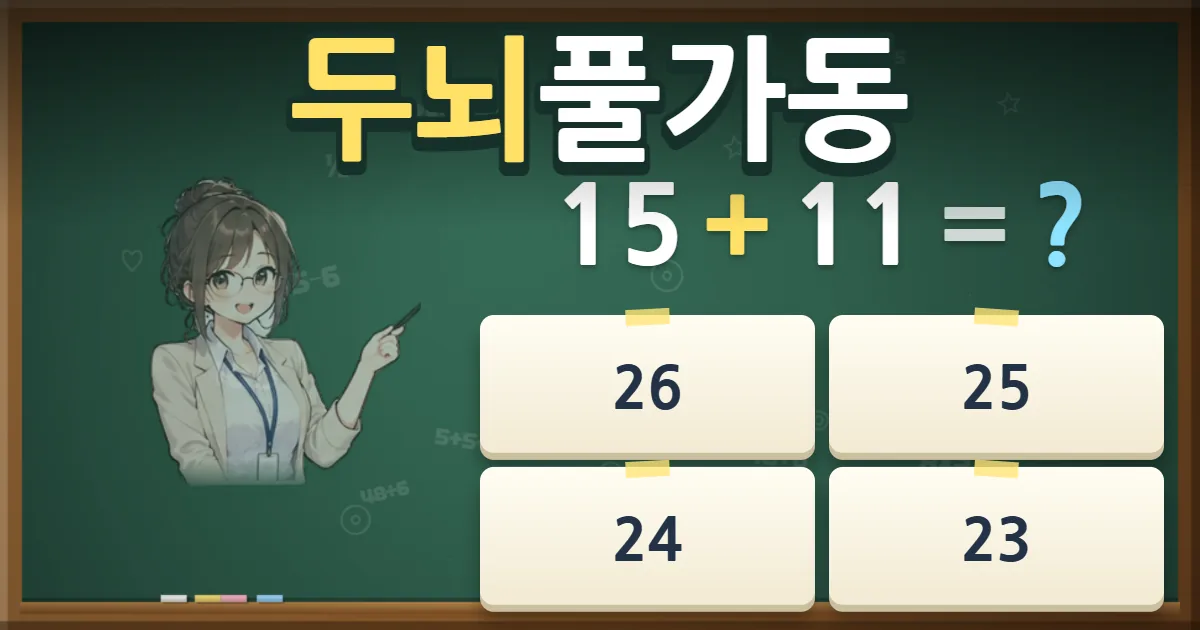
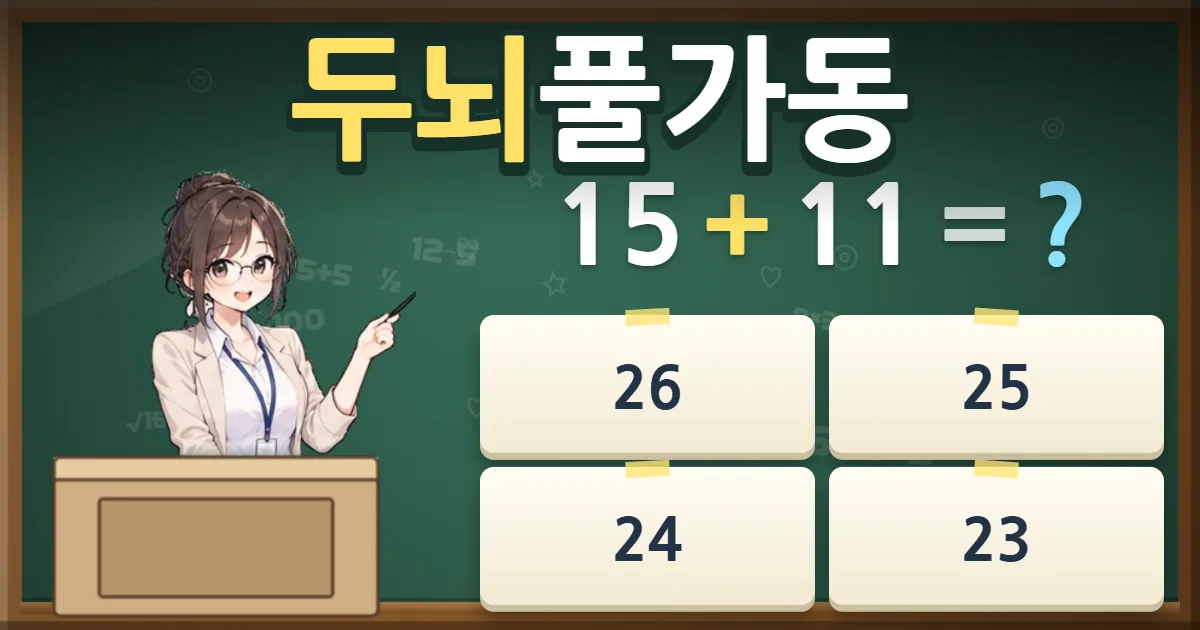
두뇌풀가동 카드·표지 그림 다시 뜸(새 선생님+교탁), ?v=2 (사장님 2026-09-21 "카드 바꿔")

Changed region(s): [[0.0308, 0.2714, 0.37, 0.9952], [0.3392, 0.3921, 0.4008, 0.4222]]

diff --git a/en/games/mini/fullbrain/index.html b/en/games/mini/fullbrain/index.html
@@ -23,7 +23,7 @@
 <meta property="og:title" content="FULL BRAIN — Free Mental Math Quiz Game, Brain Training Online">
 <meta property="og:description" content="Play FULL BRAIN, a free mental math quiz game in your browser. Pick the right answer before the timer runs out, from addition to mixed arithmetic across 60 stages, and chain correct answers for triple points. No download.">
 <meta property="og:url" content="https://oreumgames.com/en/games/mini/fullbrain/">
-<meta property="og:image" content="https://oreumgames.com/assets/fullbrain-og-en.webp?v=1">
+<meta property="og:image" content="https://oreumgames.com/assets/fullbrain-og-en.webp?v=2">
 <meta property="og:image:width" content="1200">
 <meta property="og:image:height" content="630">
 <meta property="og:locale" content="en_US">
@@ -42,7 +42,7 @@
     "두뇌풀가동"
   ],
   "url": "https://oreumgames.com/en/games/mini/fullbrain/",
-  "image": "https://oreumgames.com/assets/fullbrain-og-en.webp?v=1",
+  "image": "https://oreumgames.com/assets/fullbrain-og-en.webp?v=2",
   "description": "A free mental math quiz game that runs in your browser. An arithmetic problem appears on the chalkboard and you pick the answer from four cards before the timer runs out. 60 stages move from addition and subtraction through times tables, division, fill in the blank, three-number problems with order of operations, big numbers and true or false, ending with the BRAIN KING title and an endless mode. Chain correct answers to fill the ⚡ gauge and enter FULL POWER for triple points. Three hearts, up to three stars per stage, progress saved. A teacher sets the questions and marks them with ○ and × boards.",
   "genre": [
     "Puzzle",
@@ -183,7 +183,7 @@
   <section class="showcase">
     <div class="wrap game-page">
       <a class="backlink" href="/en/games/mini/">← All mini games</a>
-      <div class="gp-shot"><img src="/assets/fullbrain-shot-en.webp?v=1" alt="A teacher with glasses points a stick at an arithmetic problem on a green chalkboard, with four answer cards below, under the title FULL BRAIN" width="1280" height="800"></div>
+      <div class="gp-shot"><img src="/assets/fullbrain-shot-en.webp?v=2" alt="A teacher with glasses points a stick at an arithmetic problem on a green chalkboard, with four answer cards below, under the title FULL BRAIN" width="1280" height="800"></div>
       <h1>FULL BRAIN</h1>
       <p class="gp-cta"><a class="btn btn-primary" href="/games/mini/fullbrain/play/?lang=en&amp;v=20260921">🎮 Play now</a></p>
       <p class="gp-line">FULL BRAIN is a free mental math quiz game: pick the right answer to each arithmetic problem before the timer runs out. It runs in your browser with no download, on PC and mobile.</p>

diff --git a/games/mini/fullbrain/index.html b/games/mini/fullbrain/index.html
@@ -23,7 +23,7 @@
 <meta property="og:title" content="두뇌풀가동 — 사칙연산 퀴즈, 암산 두뇌 무료게임">
 <meta property="og:description" content="두뇌풀가동은 설치 없이 브라우저에서 바로 하는 사칙연산 퀴즈게임입니다. 덧셈부터 세 수 계산까지 60스테이지, 제한시간 안에 답을 고르고 연속 정답으로 풀가동 3배 점수를 노립니다.">
 <meta property="og:url" content="https://oreumgames.com/games/mini/fullbrain/">
-<meta property="og:image" content="https://oreumgames.com/assets/fullbrain-og.webp?v=1">
+<meta property="og:image" content="https://oreumgames.com/assets/fullbrain-og.webp?v=2">
 <meta property="og:image:width" content="1200">
 <meta property="og:image:height" content="630">
 <meta property="og:locale" content="ko_KR">
@@ -42,7 +42,7 @@
     "암산 게임"
   ],
   "url": "https://oreumgames.com/games/mini/fullbrain/",
-  "image": "https://oreumgames.com/assets/fullbrain-og.webp?v=1",
+  "image": "https://oreumgames.com/assets/fullbrain-og.webp?v=2",
   "description": "칠판에 뜬 사칙연산 문제를 제한시간 안에 네 장의 답 카드 중에서 고르는 퀴즈 게임. 덧셈·뺄셈·곱셈·나눗셈·빈칸 채우기·세 수 계산·큰 수·○× 판별로 이어지는 60스테이지와 두뇌왕 엔딩, 그 뒤 무한 모드. 정답을 이어 가면 ⚡ 게이지가 차고 다 차면 풀가동으로 다섯 문제 동안 점수 3배. 하트 3개, 판마다 별 3개, 진행 저장. 선생님이 문제를 내고 ○·× 팻말로 채점합니다.",
   "genre": [
     "Puzzle",
@@ -183,7 +183,7 @@
   <section class="showcase">
     <div class="wrap game-page">
       <a class="backlink" href="/games/mini/">← 미니게임 목록</a>
-      <div class="gp-shot"><img src="/assets/fullbrain-shot.webp?v=1" alt="초록 칠판 앞에서 안경 쓴 선생님이 지시봉으로 사칙연산 문제를 가리키고, 아래에 답 카드 네 장이 붙어 있다. 위에 두뇌풀가동 제목이 있다" width="1280" height="800"></div>
+      <div class="gp-shot"><img src="/assets/fullbrain-shot.webp?v=2" alt="초록 칠판 앞에서 안경 쓴 선생님이 지시봉으로 사칙연산 문제를 가리키고, 아래에 답 카드 네 장이 붙어 있다. 위에 두뇌풀가동 제목이 있다" width="1280" height="800"></div>
       <h1>두뇌풀가동</h1>
       <p class="gp-cta"><a class="btn btn-primary" href="play/?v=20260921">🎮 바로 플레이</a></p>
       <p class="gp-line">두뇌풀가동은 칠판에 뜬 사칙연산 문제를 제한시간 안에 고르는 퀴즈 무료 웹게임입니다. 설치 없이 브라우저에서 바로 시작합니다.</p>

diff --git a/index.html b/index.html
@@ -996,7 +996,7 @@
         "alternateName": "FULL BRAIN",
         "url": "https://oreumgames.com/games/mini/fullbrain/",
         "description": "두뇌풀가동은 칠판에 뜬 사칙연산 문제를 제한시간 안에 고르는 퀴즈게임입니다. 덧셈부터 세 수 계산까지 60스테이지, 연속 정답 풀가동 3배.",
-        "image": "https://oreumgames.com/assets/fullbrain-og.webp?v=1",
+        "image": "https://oreumgames.com/assets/fullbrain-og.webp?v=2",
         "applicationCategory": "GameApplication",
         "operatingSystem": "Web browser",
         "datePublished": "2026-09-21",
@@ -1052,7 +1052,7 @@
       <div class="grid">
         <!-- CARDS:start -->
         <a class="mini" href="/games/mini/fullbrain/">
-          <span class="shot"><img src="/assets/fullbrain-shot.webp?v=1" alt="초록 칠판 앞 안경 쓴 선생님과 사칙연산 문제, 답 카드 네 장. 위에 두뇌풀가동 제목이 있다" width="800" height="500" loading="lazy"><span class="kind">MINI</span></span>
+          <span class="shot"><img src="/assets/fullbrain-shot.webp?v=2" alt="초록 칠판 앞 안경 쓴 선생님과 사칙연산 문제, 답 카드 네 장. 위에 두뇌풀가동 제목이 있다" width="800" height="500" loading="lazy"><span class="kind">MINI</span></span>
           <span class="mbody"><b>두뇌풀가동</b><i>사칙연산 퀴즈 · 60스테이지</i></span>
         </a>
         <a class="mini" href="/games/flash/yut/">

diff --git a/games/mini/index.html b/games/mini/index.html
@@ -471,7 +471,7 @@
         "alternateName": "FULL BRAIN",
         "url": "https://oreumgames.com/games/mini/fullbrain/",
         "description": "두뇌풀가동은 칠판에 뜬 사칙연산 문제를 제한시간 안에 고르는 퀴즈게임입니다. 덧셈부터 세 수 계산까지 60스테이지, 연속 정답 풀가동 3배.",
-        "image": "https://oreumgames.com/assets/fullbrain-og.webp?v=1",
+        "image": "https://oreumgames.com/assets/fullbrain-og.webp?v=2",
         "applicationCategory": "GameApplication",
         "operatingSystem": "Web browser",
         "datePublished": "2026-09-21",
@@ -534,7 +534,7 @@
 
       <div class="grid nonew">
           <a class="mini" href="/games/mini/fullbrain/">
-            <span class="shot"><img src="/assets/fullbrain-shot.webp?v=1" alt="초록 칠판 앞 안경 쓴 선생님과 사칙연산 문제, 답 카드 네 장. 위에 두뇌풀가동 제목이 있다" width="800" height="500" loading="lazy"><span class="kind">MINI</span></span>
+            <span class="shot"><img src="/assets/fullbrain-shot.webp?v=2" alt="초록 칠판 앞 안경 쓴 선생님과 사칙연산 문제, 답 카드 네 장. 위에 두뇌풀가동 제목이 있다" width="800" height="500" loading="lazy"><span class="kind">MINI</span></span>
             <span class="mbody"><b>두뇌풀가동</b><i>사칙연산 퀴즈 · 60스테이지</i></span>
           </a>
           <a class="mini" href="/games/mini/foosball/">

diff --git a/en/index.html b/en/index.html
@@ -961,7 +961,7 @@
         "alternateName": "두뇌풀가동",
         "url": "https://oreumgames.com/en/games/mini/fullbrain/",
         "description": "A free mental math quiz game online: pick the answer before the timer runs out, 60 stages from addition to mixed arithmetic, FULL POWER triple points. No download.",
-        "image": "https://oreumgames.com/assets/fullbrain-og-en.webp?v=1",
+        "image": "https://oreumgames.com/assets/fullbrain-og-en.webp?v=2",
         "applicationCategory": "GameApplication",
         "operatingSystem": "Web browser",
         "datePublished": "2026-09-21",
@@ -1014,7 +1014,7 @@
       <div class="grid">
         <!-- CARDS:start -->
         <a class="mini" href="/en/games/mini/fullbrain/">
-          <span class="shot"><img src="/assets/fullbrain-shot-en.webp?v=1" alt="A teacher with glasses in front of a green chalkboard with a math problem and four answer cards, under the title FULL BRAIN" width="800" height="500" loading="lazy"><span class="kind">MINI</span></span>
+          <span class="shot"><img src="/assets/fullbrain-shot-en.webp?v=2" alt="A teacher with glasses in front of a green chalkboard with a math problem and four answer cards, under the title FULL BRAIN" width="800" height="500" loading="lazy"><span class="kind">MINI</span></span>
           <span class="mbody"><b>FULL BRAIN</b><i>Mental math quiz · 60 stages</i></span>
         </a>
         <a class="mini" href="/en/games/flash/yut/">

diff --git a/en/games/index.html b/en/games/index.html
@@ -208,7 +208,7 @@
       <div class="grid g-small">
         <!-- MINI:start -->
         <a class="mini" href="/en/games/mini/fullbrain/">
-          <span class="shot"><img src="/assets/fullbrain-shot-en.webp?v=1" alt="A teacher with glasses in front of a green chalkboard with a math problem and four answer cards, under the title FULL BRAIN" width="800" height="500" loading="lazy"><span class="kind">MINI</span></span>
+          <span class="shot"><img src="/assets/fullbrain-shot-en.webp?v=2" alt="A teacher with glasses in front of a green chalkboard with a math problem and four answer cards, under the title FULL BRAIN" width="800" height="500" loading="lazy"><span class="kind">MINI</span></span>
           <span class="mbody"><b>FULL BRAIN</b><i>Mental math quiz · 60 stages</i></span>
         </a>
         <a class="mini" href="/en/games/mini/foosball/">

diff --git a/games/index.html b/games/index.html
@@ -215,7 +215,7 @@
       <div class="grid g-small">
         <!-- MINI:start -->
         <a class="mini" href="/games/mini/fullbrain/">
-          <span class="shot"><img src="/assets/fullbrain-shot.webp?v=1" alt="초록 칠판 앞 안경 쓴 선생님과 사칙연산 문제, 답 카드 네 장. 위에 두뇌풀가동 제목이 있다" width="800" height="500" loading="lazy"><span class="kind">MINI</span></span>
+          <span class="shot"><img src="/assets/fullbrain-shot.webp?v=2" alt="초록 칠판 앞 안경 쓴 선생님과 사칙연산 문제, 답 카드 네 장. 위에 두뇌풀가동 제목이 있다" width="800" height="500" loading="lazy"><span class="kind">MINI</span></span>
           <span class="mbody"><b>두뇌풀가동</b><i>사칙연산 퀴즈 · 60스테이지</i></span>
         </a>
         <a class="mini" href="/games/mini/foosball/">

diff --git a/en/games/mini/index.html b/en/games/mini/index.html
@@ -72,7 +72,7 @@
 
       <div class="grid nonew">
           <a class="mini" href="/en/games/mini/fullbrain/">
-            <span class="shot"><img src="/assets/fullbrain-shot-en.webp?v=1" alt="A teacher with glasses in front of a green chalkboard with a math problem and four answer cards, under the title FULL BRAIN" width="800" height="500" loading="lazy"><span class="kind">MINI</span></span>
+            <span class="shot"><img src="/assets/fullbrain-shot-en.webp?v=2" alt="A teacher with glasses in front of a green chalkboard with a math problem and four answer cards, under the title FULL BRAIN" width="800" height="500" loading="lazy"><span class="kind">MINI</span></span>
             <span class="mbody"><b>FULL BRAIN</b><i>Mental math quiz · 60 stages</i></span>
           </a>
           <a class="mini" href="/en/games/mini/foosball/">
